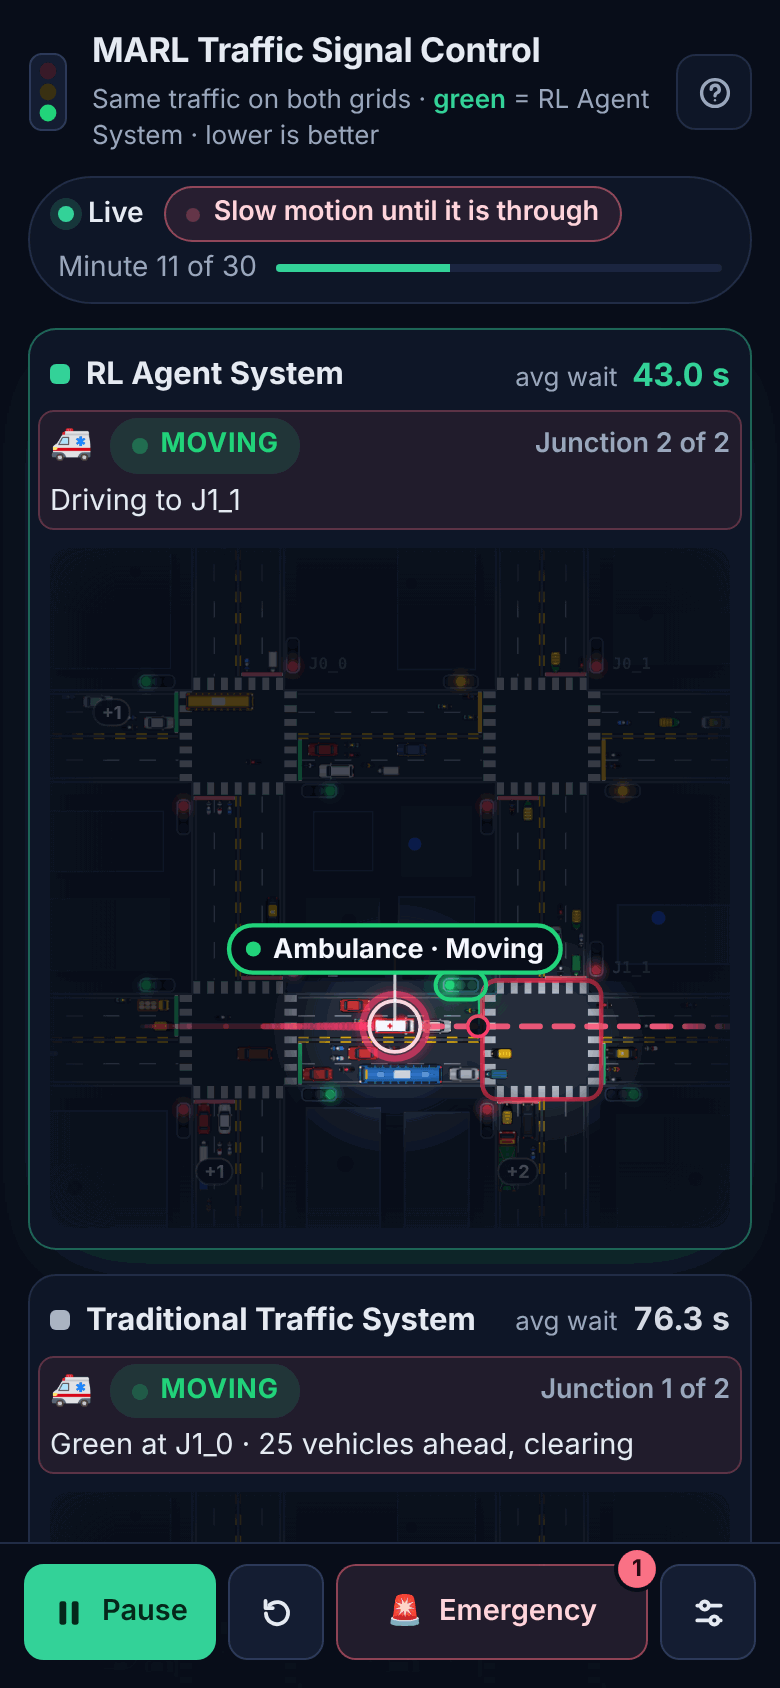
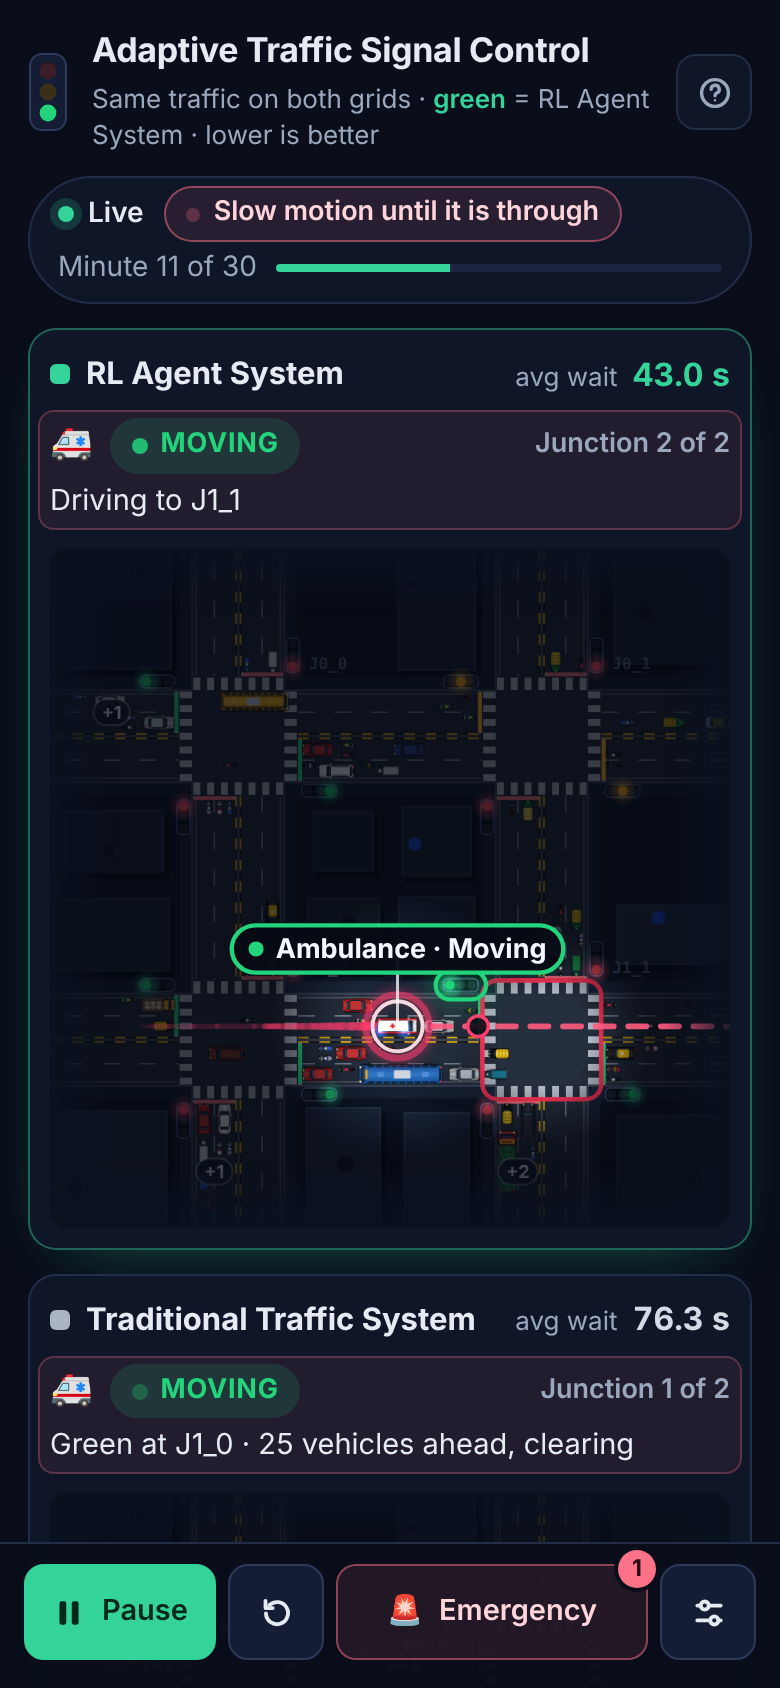
Restore the name Adaptive Traffic Signal Control everywhere

diff --git a/src/atsc/dashboard/static/index.html b/src/atsc/dashboard/static/index.html
@@ -6,7 +6,7 @@
   <meta name="color-scheme" content="dark">
   <meta name="theme-color" content="#090e1a">
   <meta name="description" content="Live race on identical traffic: an RL Agent System (four multi-agent deep reinforcement learning signal controllers) against a traditional fixed-time system, with live emergency-vehicle tracking.">
-  <title>MARL Traffic Signal Control · Live</title>
+  <title>Adaptive Traffic Signal Control · Live</title>
   <link rel="icon" href="/static/icon.svg" type="image/svg+xml">
   <link rel="stylesheet" href="/static/styles.css">
   <script type="module" src="/static/js/main.js"></script>
@@ -18,7 +18,7 @@
     <header class="top">
       <svg class="logo" viewBox="0 0 20 40" aria-hidden="true"><rect x="1" y="1" width="18" height="38" rx="6" class="logo-body"/><circle cx="10" cy="9.5" r="4.2" class="lamp-r"/><circle cx="10" cy="20" r="4.2" class="lamp-a"/><circle cx="10" cy="30.5" r="4.2" class="lamp-g"/></svg>
       <div class="titles">
-        <h1>MARL Traffic Signal Control</h1>
+        <h1>Adaptive Traffic Signal Control</h1>
         <p class="sub"><span class="long">Same vehicles enter both grids at the same moments — <span class="c-rl">green</span> is the RL Agent System, <span class="c-tr">grey</span> the Traditional Traffic System. Lower numbers are better.</span><span class="short">Same traffic on both grids · <span class="c-rl">green</span> = RL Agent System · lower is better</span></p>
       </div>
       <div class="status">
@@ -130,7 +130,7 @@
             <div class="one tr"><span class="who tr"><i></i>Traditional System</span><span class="num"><span id="wFT">–</span><small>s</small></span></div>
           </div>
           <p class="note" id="resNote">The numbers fill in as vehicles arrive.</p>
-          <p class="bench">Benchmark, 36 runs: <b>16%</b> less waiting in light traffic, <b>61%</b> less at rush hour · <a href="https://github.com/Adityakumar1805/marl-traffic-signal-control/blob/main/REPORT.md" target="_blank" rel="noopener">Full report ↗</a></p>
+          <p class="bench">Benchmark, 36 runs: <b>16%</b> less waiting in light traffic, <b>61%</b> less at rush hour · <a href="https://github.com/Adityakumar1805/adaptive-traffic-signal-control/blob/main/REPORT.md" target="_blank" rel="noopener">Full report ↗</a></p>
         </section>
 
         <div class="tiles" id="tiles">
@@ -168,7 +168,7 @@
 
     <footer class="foot">
       <span>Both grids get identical traffic. A safety layer adds a 3 s amber and 2 s all-red to every change, on both.</span>
-      <nav aria-label="Project links"><a href="https://github.com/Adityakumar1805/marl-traffic-signal-control" target="_blank" rel="noopener">Source code</a><a href="https://github.com/Adityakumar1805/marl-traffic-signal-control/blob/main/REPORT.md" target="_blank" rel="noopener">Full report</a><a href="/healthz">Server status</a></nav>
+      <nav aria-label="Project links"><a href="https://github.com/Adityakumar1805/adaptive-traffic-signal-control" target="_blank" rel="noopener">Source code</a><a href="https://github.com/Adityakumar1805/adaptive-traffic-signal-control/blob/main/REPORT.md" target="_blank" rel="noopener">Full report</a><a href="/healthz">Server status</a></nav>
       <span class="keys">Shortcuts: <kbd>Space</kbd> pause · <kbd>R</kbd> restart · <kbd>E</kbd> emergency vehicle · <kbd>F</kbd> focus</span>
     </footer>
   </div>

diff --git a/src/atsc/dashboard/static/styles.css b/src/atsc/dashboard/static/styles.css
@@ -1,5 +1,5 @@
 /* ================================================================
-   MARL Traffic Signal Control - live dashboard.
+   Adaptive Traffic Signal Control - live dashboard.
    Night theme: green = RL Agent System, grey = Traditional Traffic System,
    rose = emergency vehicles. Signal lamps keep their real red / amber / green.
    Laptop: the two maps as big as the screen allows, each with its own status line;

diff --git a/run.py b/run.py
@@ -1,5 +1,5 @@
 #!/usr/bin/env python3
-"""Single entry point for the MARL Traffic Signal Control project.
+"""Single entry point for the Adaptive Traffic Signal Control project.
 
 Usage
 -----
@@ -37,7 +37,7 @@ def cmd_doctor(args) -> int:
 
     from atsc import __version__
     print("=" * 64)
-    print(f"  MARL Traffic Signal Control - environment check ({__version__})")
+    print(f"  Adaptive Traffic Signal Control - environment check ({__version__})")
     print("=" * 64)
     print(f"  Python           : {platform.python_version()}  ({platform.system()})")
 
@@ -185,7 +185,7 @@ def cmd_demo(args) -> int:
 
 def main() -> int:
     parser = argparse.ArgumentParser(
-        prog="run.py", description="MARL Traffic Signal Control")
+        prog="run.py", description="Adaptive Traffic Signal Control (RL)")
     parser.add_argument("--config", default=None, help="path to config.yaml")
     parser.add_argument("--debug", action="store_true", help="show full tracebacks on errors")
     sub = parser.add_subparsers(dest="command")

diff --git a/src/atsc/dashboard/server.py b/src/atsc/dashboard/server.py
@@ -200,7 +200,7 @@ def build_app(session: DashboardSession):
                 await task
             await hub.close_all()
 
-    app = FastAPI(title="MARL Traffic Signal Control - Live Dashboard", lifespan=lifespan,
+    app = FastAPI(title="Adaptive Traffic Signal Control - Live Dashboard", lifespan=lifespan,
                   docs_url=None, redoc_url=None, openapi_url=None)
     app.state.session = session
     app.state.hub = hub

diff --git a/tools/e2e_browser.py b/tools/e2e_browser.py
@@ -2,7 +2,7 @@
 
     pip install playwright && python -m playwright install chromium     # once
     python tools/e2e_browser.py --local                  # starts its own server, full run
-    python tools/e2e_browser.py https://marl-traffic-signal-control.onrender.com
+    python tools/e2e_browser.py https://adaptive-traffic-signal-control.onrender.com
 
 Checks, each reported PASS / FAIL:
 

diff --git a/src/atsc/__init__.py b/src/atsc/__init__.py
@@ -1,5 +1,5 @@
 """
-atsc — MARL Traffic Signal Control: multi-agent reinforcement learning for traffic signals.
+atsc — AI-Based Adaptive Traffic Signal Control System using Reinforcement Learning.
 
 A multi-agent Deep-RL controller (Double + Dueling DQN with Prioritized Experience
 Replay) for coordinated traffic-signal control on a grid of intersections, running on

diff --git a/README.md b/README.md
@@ -1,23 +1,23 @@
-# MARL Traffic Signal Control
+# Adaptive Traffic Signal Control with Deep Reinforcement Learning
 
 <div align="center">
 
 <!-- Render assigns the hostname on the first deploy. If yours differs, update the two
      links that point at it: the badge here and the one in the Live demo section. -->
 
-<a href="https://marl-traffic-signal-control.onrender.com"><img alt="Open the live dashboard" src="https://img.shields.io/badge/%F0%9F%9A%80%20Live%20Demo-open%20the%20dashboard-22c55e?style=for-the-badge&labelColor=0b1120"></a>
+<a href="https://adaptive-traffic-signal-control.onrender.com"><img alt="Open the live dashboard" src="https://img.shields.io/badge/%F0%9F%9A%80%20Live%20Demo-open%20the%20dashboard-22c55e?style=for-the-badge&labelColor=0b1120"></a>
 &nbsp;
-<a href="https://render.com/deploy?repo=https://github.com/Adityakumar1805/marl-traffic-signal-control"><img alt="Deploy your own copy on Render" src="https://img.shields.io/badge/Deploy%20your%20own-Render-46e3b7?style=for-the-badge&labelColor=0b1120"></a>
+<a href="https://render.com/deploy?repo=https://github.com/Adityakumar1805/adaptive-traffic-signal-control"><img alt="Deploy your own copy on Render" src="https://img.shields.io/badge/Deploy%20your%20own-Render-46e3b7?style=for-the-badge&labelColor=0b1120"></a>
 
 <sub>Free instance: if it has been idle for a while the first request takes about a minute to wake it (returning visitors see a "Waking up the server…" screen). Everything after that is real time.</sub>
 
-<img src="docs/assets/hero.svg" alt="MARL Traffic Signal Control, multi-agent deep reinforcement learning for traffic signals: four Double and Dueling DQN agents on a 2x2 grid, neighbour-aware, safety-gated, ambulance-priority" width="100%">
+<img src="docs/assets/hero.svg" alt="Multi-agent deep reinforcement learning for adaptive traffic signal control: four Double and Dueling DQN agents on a 2x2 grid, neighbour-aware, safety-gated, ambulance-priority" width="100%">
 
 <p>
   <img alt="Python 3.10 to 3.12" src="https://img.shields.io/badge/Python-3.10%20%E2%80%93%203.12-3776AB?logo=python&logoColor=white">
   <img alt="PyTorch 2.2 with a NumPy fallback" src="https://img.shields.io/badge/PyTorch-2.2%20%C2%B7%20NumPy%20fallback-EE4C2C?logo=pytorch&logoColor=white">
   <img alt="SUMO optional" src="https://img.shields.io/badge/SUMO-optional-00A0A0">
-  <a href="https://github.com/Adityakumar1805/marl-traffic-signal-control/actions/workflows/ci.yml"><img alt="CI: tests and benchmark reproduction" src="https://github.com/Adityakumar1805/marl-traffic-signal-control/actions/workflows/ci.yml/badge.svg?branch=main"></a>
+  <a href="https://github.com/Adityakumar1805/adaptive-traffic-signal-control/actions/workflows/ci.yml"><img alt="CI: tests and benchmark reproduction" src="https://github.com/Adityakumar1805/adaptive-traffic-signal-control/actions/workflows/ci.yml/badge.svg?branch=main"></a>
   <img alt="36 benchmark runs" src="https://img.shields.io/badge/benchmark-36%20runs-38bdf8">
   <img alt="MIT licence" src="https://img.shields.io/badge/licence-MIT-64748b">
 </p>
@@ -53,7 +53,7 @@ python run.py demo              # dashboard on http://127.0.0.1:8000 — nothing
 
 ## 🚀 Live demo
 
-### **<https://marl-traffic-signal-control.onrender.com>**
+### **<https://adaptive-traffic-signal-control.onrender.com>**
 
 No install, no SUMO, no checkpoint to train — the hosted instance runs the same shipped
 model as the local demo. Three things worth doing in the first minute:

diff --git a/EXPLAINER.md b/EXPLAINER.md
@@ -1,6 +1,6 @@
 # EXPLAINER.md — Study & Viva Reference
 
-**Project:** MARL Traffic Signal Control using Multi-Agent Reinforcement Learning
+**Project:** AI-Based Adaptive Traffic Signal Control System using Reinforcement Learning
 **Author:** Aditya Kumar
 
 > This document is grounded in the actual repository. Every hyperparameter and design
@@ -49,8 +49,8 @@ East–West gets 30 seconds, forever, regardless of whether one side is jammed a
 is empty. Real traffic is *asymmetric* (a main road carries far more cars than a side
 street) and *changes over the day*. A metronome can't adapt, so cars idle at red lights
 with nobody crossing the other way — wasting **time, fuel, and producing emissions** for no
-benefit. Our controller instead does this: *look at the queues, then spend green where the
-cars actually are.*
+benefit. Adaptive control means: *look at the queues, then spend green where the cars
+actually are.*
 
 **Why this is a reinforcement-learning (RL) problem.** Controlling a signal is a
 **sequential decision problem under uncertainty**: each decision (hold or switch) changes

diff --git a/docs/DEPLOYMENT.md b/docs/DEPLOYMENT.md
@@ -58,7 +58,7 @@ visitors see the page's own **Waking up the server…** screen during that time 
 
    and, once you open the page, `"WebSocket /ws" [accepted]` and `connection open`.
 6. Open the URL Render prints. **If it is not
-   `https://marl-traffic-signal-control.onrender.com`** — the name may already be taken —
+   `https://adaptive-traffic-signal-control.onrender.com`** — the name may already be taken —
    update the links at the top of `README.md`.
 
 There are no secrets, no database and no API keys to add.
@@ -112,7 +112,7 @@ to GitHub does not redeploy it by itself.
 
    ```yaml
    ---
-   title: MARL Traffic Signal Control
+   title: Adaptive Traffic Signal Control
    sdk: docker
    app_port: 7860
    ---

diff --git a/docs/VIVA_MASTER.md b/docs/VIVA_MASTER.md
@@ -926,7 +926,7 @@ is consistent with it. Timings are for spoken pace.
 > the side-street demand, and a symmetric fixed cycle simply cannot express that.
 >
 > **(0:20–0:50 — what I built)**
-> I built a multi-agent RL controller for a 2×2 grid of four signalised junctions. Each junction is
+> I built an adaptive controller for a 2×2 grid of four signalised junctions. Each junction is
 > its own reinforcement-learning agent — a Double Dueling DQN with prioritized experience
 > replay. Every five seconds each agent reads 23 numbers: its own four queues and waiting
 > times, its current phase, how long that green has been running, emergency flags, and its

diff --git a/CHANGELOG.md b/CHANGELOG.md
@@ -2,7 +2,7 @@
 
 ## 1.0.0 — first release
 
-Multi-agent deep reinforcement learning for traffic signal control on a 2 × 2 grid,
+Multi-agent deep reinforcement learning for adaptive traffic signal control on a 2 × 2 grid,
 a reproducible benchmark against two baselines, and a live web dashboard that races the
 learned policy against a fixed-time controller on identical traffic.
 

diff --git a/REPORT.md b/REPORT.md
@@ -1,4 +1,4 @@
-# MARL Traffic Signal Control using Multi-Agent Reinforcement Learning
+# AI-Based Adaptive Traffic Signal Control System using Reinforcement Learning
 ### Project Report
 
 | | |
